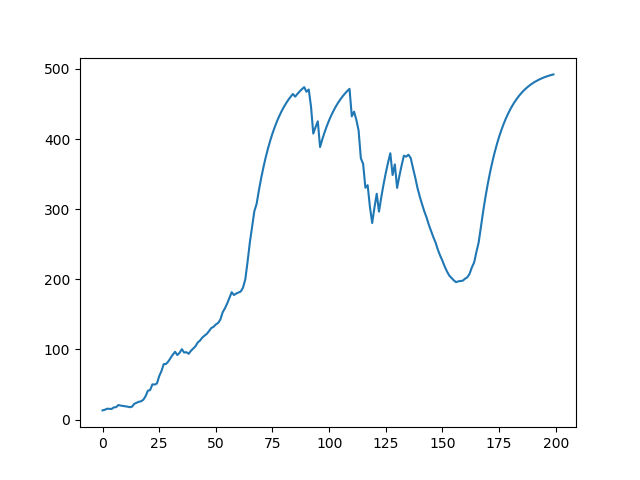
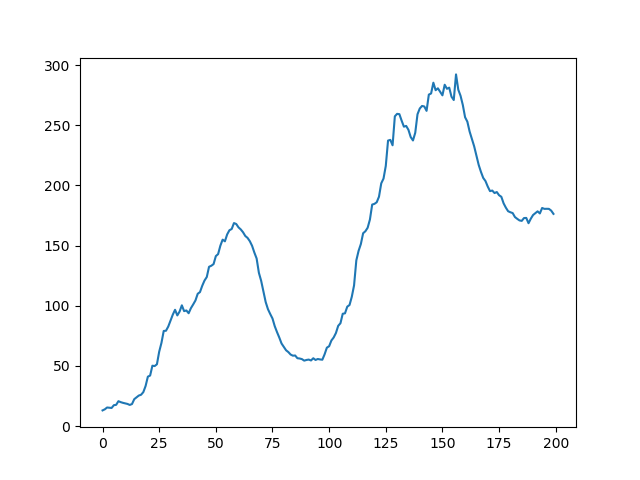
update

diff --git a/examples/reinforcement_learning/tutorial_prioritized_replay.py b/examples/reinforcement_learning/tutorial_prioritized_replay.py
@@ -4,28 +4,19 @@ Prioritized Experience Replay
 Prioritized experience replay is an efficient replay method that replay
 important transitions more frequently. Segment tree data structure is used to
 speed up indexing.
-
-
 Reference:
 ------------------------
 Schaul T, Quan J, Antonoglou I, et al. Prioritized experience replay[J]. arXiv
 preprint arXiv:1511.05952, 2015.
-
 Dhariwal P, Hesse C, Klimov O, et al. Openai baselines (2017)[J]. URL
 https://github. com/opfenai/baselines.
-
-
 Environment:
 ------------------------
 Cartpole and Pong in OpenAI Gym
-
-
 Requirements:
 ------------------------
 tensorflow>=2.0.0a0
 tensorlayer>=2.0.0
-
-
 To run:
 ------------------------
 python tutorial_prioritized_replay.py --mode=train
@@ -39,6 +30,7 @@ import time
 
 import numpy as np
 import tensorflow as tf
+import matplotlib.pyplot as plt
 
 import tensorlayer as tl
 from tutorial_wrappers import build_env
@@ -46,20 +38,20 @@ from tutorial_wrappers import build_env
 parser = argparse.ArgumentParser()
 parser.add_argument('--mode', help='train or test', default='train')
 parser.add_argument(
-    '--save_path', default='per', help='folder to save if mode == train else model path,'
+    '--save_path', default=None, help='folder to save if mode == train else model path,'
     'qnet will be saved once target net update'
 )
 parser.add_argument('--seed', help='random seed', type=int, default=0)
 parser.add_argument('--env_id', default='CartPole-v0', help='CartPole-v0 or PongNoFrameskip-v4')
 args = parser.parse_args()
 
-if args.mode == 'train':
-    os.makedirs(args.save_path, exist_ok=True)
 random.seed(args.seed)
 np.random.seed(args.seed)
 tf.random.set_seed(args.seed)  # reproducible
 env_id = args.env_id
 env = build_env(env_id, seed=args.seed)
+alg_name = 'prioritized_replay'
+
 
 # ####################  hyper parameters  ####################
 if env_id == 'CartPole-v0':
@@ -141,18 +133,14 @@ class SegmentTree(object):
 
     def __init__(self, capacity, operation, neutral_element):
         """Build a Segment Tree data structure.
-
         https://en.wikipedia.org/wiki/Segment_tree
-
         Can be used as regular array, but with two
         important differences:
-
             a) setting item's value is slightly slower.
                It is O(lg capacity) instead of O(1).
             b) user has access to an efficient ( O(log segment size) )
                `reduce` operation which reduces `operation` over
                a contiguous subsequence of items in the array.
-
         Paramters
         ---------
         capacity: int
@@ -189,14 +177,12 @@ class SegmentTree(object):
     def reduce(self, start=0, end=None):
         """Returns result of applying `self.operation`
         to a contiguous subsequence of the array.
-
         Parameters
         ----------
         start: int
             beginning of the subsequence
         end: int
             end of the subsequences
-
         Returns
         -------
         reduced: obj
@@ -235,16 +221,13 @@ class SumSegmentTree(SegmentTree):
     def find_prefixsum_idx(self, prefixsum):
         """Find the highest index `i` in the array such that
             sum(arr[0] + arr[1] + ... + arr[i - i]) <= prefixsum
-
         if array values are probabilities, this function
         allows to sample indexes according to the discrete
         probability efficiently.
-
         Parameters
         ----------
         perfixsum: float
             upperbound on the sum of array prefix
-
         Returns
         -------
         idx: int
@@ -316,7 +299,6 @@ class PrioritizedReplayBuffer(ReplayBuffer):
 
     def __init__(self, size, alpha, beta):
         """Create Prioritized Replay buffer.
-
         Parameters
         ----------
         size: int
@@ -325,7 +307,6 @@ class PrioritizedReplayBuffer(ReplayBuffer):
         alpha: float
             how much prioritization is used
             (0 - no prioritization, 1 - full prioritization)
-
         See Also
         --------
         ReplayBuffer.__init__
@@ -410,7 +391,7 @@ class DQN(object):
             sync(self.qnet, self.targetqnet)
         else:
             self.qnet.infer()
-            tl.files.load_and_assign_npz(name=args.save_path, network=self.qnet)
+            self.load(args.save_path)
         self.niter = 0
         if clipnorm is not None:
             self.optimizer = tf.optimizers.Adam(learning_rate=lr, clipnorm=clipnorm)
@@ -437,10 +418,20 @@ class DQN(object):
         self.niter += 1
         if self.niter % target_q_update_freq == 0:
             sync(self.qnet, self.targetqnet)
-            path = os.path.join(args.save_path, '{}.npz'.format(self.niter))
-            tl.files.save_npz(self.qnet.trainable_weights, name=path)
-
+            self.save(args.save_path)
         return td_errors.numpy()
+
+    def save(self, path):
+        if path is None:
+            path = os.path.join('model', '_'.join([alg_name, env_id]))
+        if not os.path.exists(path):
+            os.makedirs(path)
+        tl.files.save_weights_to_hdf5(os.path.join(path, 'q_net.hdf5'), self.qnet)
+
+    def load(self, path):
+        if path is None:
+            path = os.path.join('model', '_'.join([alg_name, env_id]))
+        tl.files.load_hdf5_to_weights_in_order(os.path.join(path, 'q_net.hdf5'), self.qnet)
 
     @tf.function
     def _train_func(self, b_o, b_a, b_r, b_o_, b_d, weights):
@@ -469,6 +460,7 @@ if __name__ == '__main__':
         o = env.reset()
         nepisode = 0
         t = time.time()
+        all_episode_reward = []
         for i in range(1, number_timesteps + 1):
             buffer.beta += (1 - prioritized_replay_beta0) / number_timesteps
 
@@ -486,6 +478,11 @@ if __name__ == '__main__':
                 buffer.update_priorities(idxs, priorities)
 
             if done:
+                episode_reward = info['episode']['r']
+                if nepisode == 0:
+                    all_episode_reward.append(episode_reward)
+                else:
+                    all_episode_reward.append(all_episode_reward[-1] * 0.9 + episode_reward * 0.1)
                 o = env.reset()
             else:
                 o = o_
@@ -494,12 +491,21 @@ if __name__ == '__main__':
             if info.get('episode'):
                 nepisode += 1
                 reward, length = info['episode']['r'], info['episode']['l']
-                fps = int(length / (time.time() - t))
+                try:
+                    fps = int(length / (time.time() - t))
+                except:
+                    fps = 0
                 print(
                     'Time steps so far: {}, episode so far: {}, '
                     'episode reward: {:.4f}, episode length: {}, FPS: {}'.format(i, nepisode, reward, length, fps)
                 )
                 t = time.time()
+
+        dqn.save(args.save_path)
+        plt.plot(all_episode_reward)
+        if not os.path.exists('image'):
+            os.makedirs('image')
+        plt.savefig(os.path.join('image', '_'.join([alg_name, env_id])))
     else:
         nepisode = 0
         o = env.reset()
@@ -509,6 +515,7 @@ if __name__ == '__main__':
             # execute action
             # note that `_` tail in var name means next
             o_, r, done, info = env.step(a)
+            env.render()
 
             if done:
                 o = env.reset()

diff --git a/examples/reinforcement_learning/tutorial_Qlearning.py b/examples/reinforcement_learning/tutorial_Qlearning.py
@@ -1,30 +1,38 @@
 """Q-Table learning algorithm.
-
 Non deep learning - TD Learning, Off-Policy, e-Greedy Exploration
-
 Q(S, A) <- Q(S, A) + alpha * (R + lambda * Q(newS, newA) - Q(S, A))
-
 See David Silver RL Tutorial Lecture 5 - Q-Learning for more details.
-
 For Q-Network, see tutorial_frozenlake_q_network.py
-
 EN: https://medium.com/emergent-future/simple-reinforcement-learning-with-tensorflow-part-0-q-learning-with-tables-and-neural-networks-d195264329d0#.5m3361vlw
 CN: https://zhuanlan.zhihu.com/p/25710327
-
 tensorflow==2.0.0a0
 tensorlayer==2.0.0
-
 """
 
-import time
-
+import os
 import gym
+import time
+import argparse
 import numpy as np
+import matplotlib.pyplot as plt
+
+parser = argparse.ArgumentParser()
+parser.add_argument('--train', dest='train', action='store_true', default=False)
+parser.add_argument('--test', dest='test', action='store_true', default=True)
+
+parser.add_argument(
+    '--save_path', default=None, help='folder to save if mode == train else model path,'
+                                      'qnet will be saved once target net update'
+)
+parser.add_argument('--seed', help='random seed', type=int, default=0)
+parser.add_argument('--env_id', default='FrozenLake-v0')
+args = parser.parse_args()
 
 ## Load the environment
-env = gym.make('FrozenLake-v0')
+alg_name = 'Qlearning'
+env_id = args.env_id
+env = gym.make(env_id)
 render = False  # display the game environment
-running_reward = None
 
 ##================= Implement Q-Table learning algorithm =====================##
 ## Initialize table with all zeros
@@ -33,28 +41,63 @@ Q = np.zeros([env.observation_space.n, env.action_space.n])
 lr = .85  # alpha, if use value function approximation, we can ignore it
 lambd = .99  # decay factor
 num_episodes = 10000
-rList = []  # rewards for each episode
-for i in range(num_episodes):
-    ## Reset environment and get first new observation
-    episode_time = time.time()
-    s = env.reset()
-    rAll = 0
-    ## The Q-Table learning algorithm
-    for j in range(99):
-        if render: env.render()
-        ## Choose an action by greedily (with noise) picking from Q table
-        a = np.argmax(Q[s, :] + np.random.randn(1, env.action_space.n) * (1. / (i + 1)))
-        ## Get new state and reward from environment
-        s1, r, d, _ = env.step(a)
-        ## Update Q-Table with new knowledge
-        Q[s, a] = Q[s, a] + lr * (r + lambd * np.max(Q[s1, :]) - Q[s, a])
-        rAll += r
-        s = s1
-        if d ==True:
-            break
-    rList.append(rAll)
-    running_reward = r if running_reward is None else running_reward * 0.99 + r * 0.01
-    print("Episode [%d/%d] sum reward: %f running reward: %f took: %.5fs " % \
-        (i, num_episodes, rAll, running_reward, time.time() - episode_time))
+t0 = time.time()
 
-print("Final Q-Table Values:/n %s" % Q)
+if args.train:
+    all_episode_reward = []
+    for i in range(num_episodes):
+        ## Reset environment and get first new observation
+        s = env.reset()
+        rAll = 0
+        ## The Q-Table learning algorithm
+        for j in range(99):
+            if render: env.render()
+            ## Choose an action by greedily (with noise) picking from Q table
+            a = np.argmax(Q[s, :] + np.random.randn(1, env.action_space.n) * (1. / (i + 1)))
+            ## Get new state and reward from environment
+            s1, r, d, _ = env.step(a)
+            ## Update Q-Table with new knowledge
+            Q[s, a] = Q[s, a] + lr * (r + lambd * np.max(Q[s1, :]) - Q[s, a])
+            rAll += r
+            s = s1
+            if d is True:
+                break
+        print("Episode [%d/%d] sum reward: %f took: %.5fs " % (i, num_episodes, rAll, time.time() - t0))
+
+        if i == 0:
+            all_episode_reward.append(rAll)
+        else:
+            all_episode_reward.append(all_episode_reward[-1] * 0.9 + rAll * 0.1)
+
+    # save
+    path = os.path.join('model', '_'.join([alg_name, env_id]))
+    if not os.path.exists(path):
+        os.makedirs(path)
+    np.save(os.path.join(path, 'Q_table.npy'), Q)
+
+    plt.plot(all_episode_reward)
+    if not os.path.exists('image'):
+        os.makedirs('image')
+    plt.savefig(os.path.join('image', '_'.join([alg_name, env_id])))
+
+    # print("Final Q-Table Values:/n %s" % Q)
+
+if args.test:
+    path = os.path.join('model', '_'.join([alg_name, env_id]))
+    Q = np.load(os.path.join(path, 'Q_table.npy'))
+    for i in range(num_episodes):
+        ## Reset environment and get first new observation
+        s = env.reset()
+        rAll = 0
+        ## The Q-Table learning algorithm
+        for j in range(99):
+            ## Choose an action by greedily (with noise) picking from Q table
+            a = np.argmax(Q[s, :])
+            ## Get new state and reward from environment
+            s1, r, d, _ = env.step(a)
+            ## Update Q-Table with new knowledge
+            rAll += r
+            s = s1
+            if d is True:
+                break
+        print("Episode [%d/%d] sum reward: %f took: %.5fs " % (i, num_episodes, rAll, time.time() - t0))
